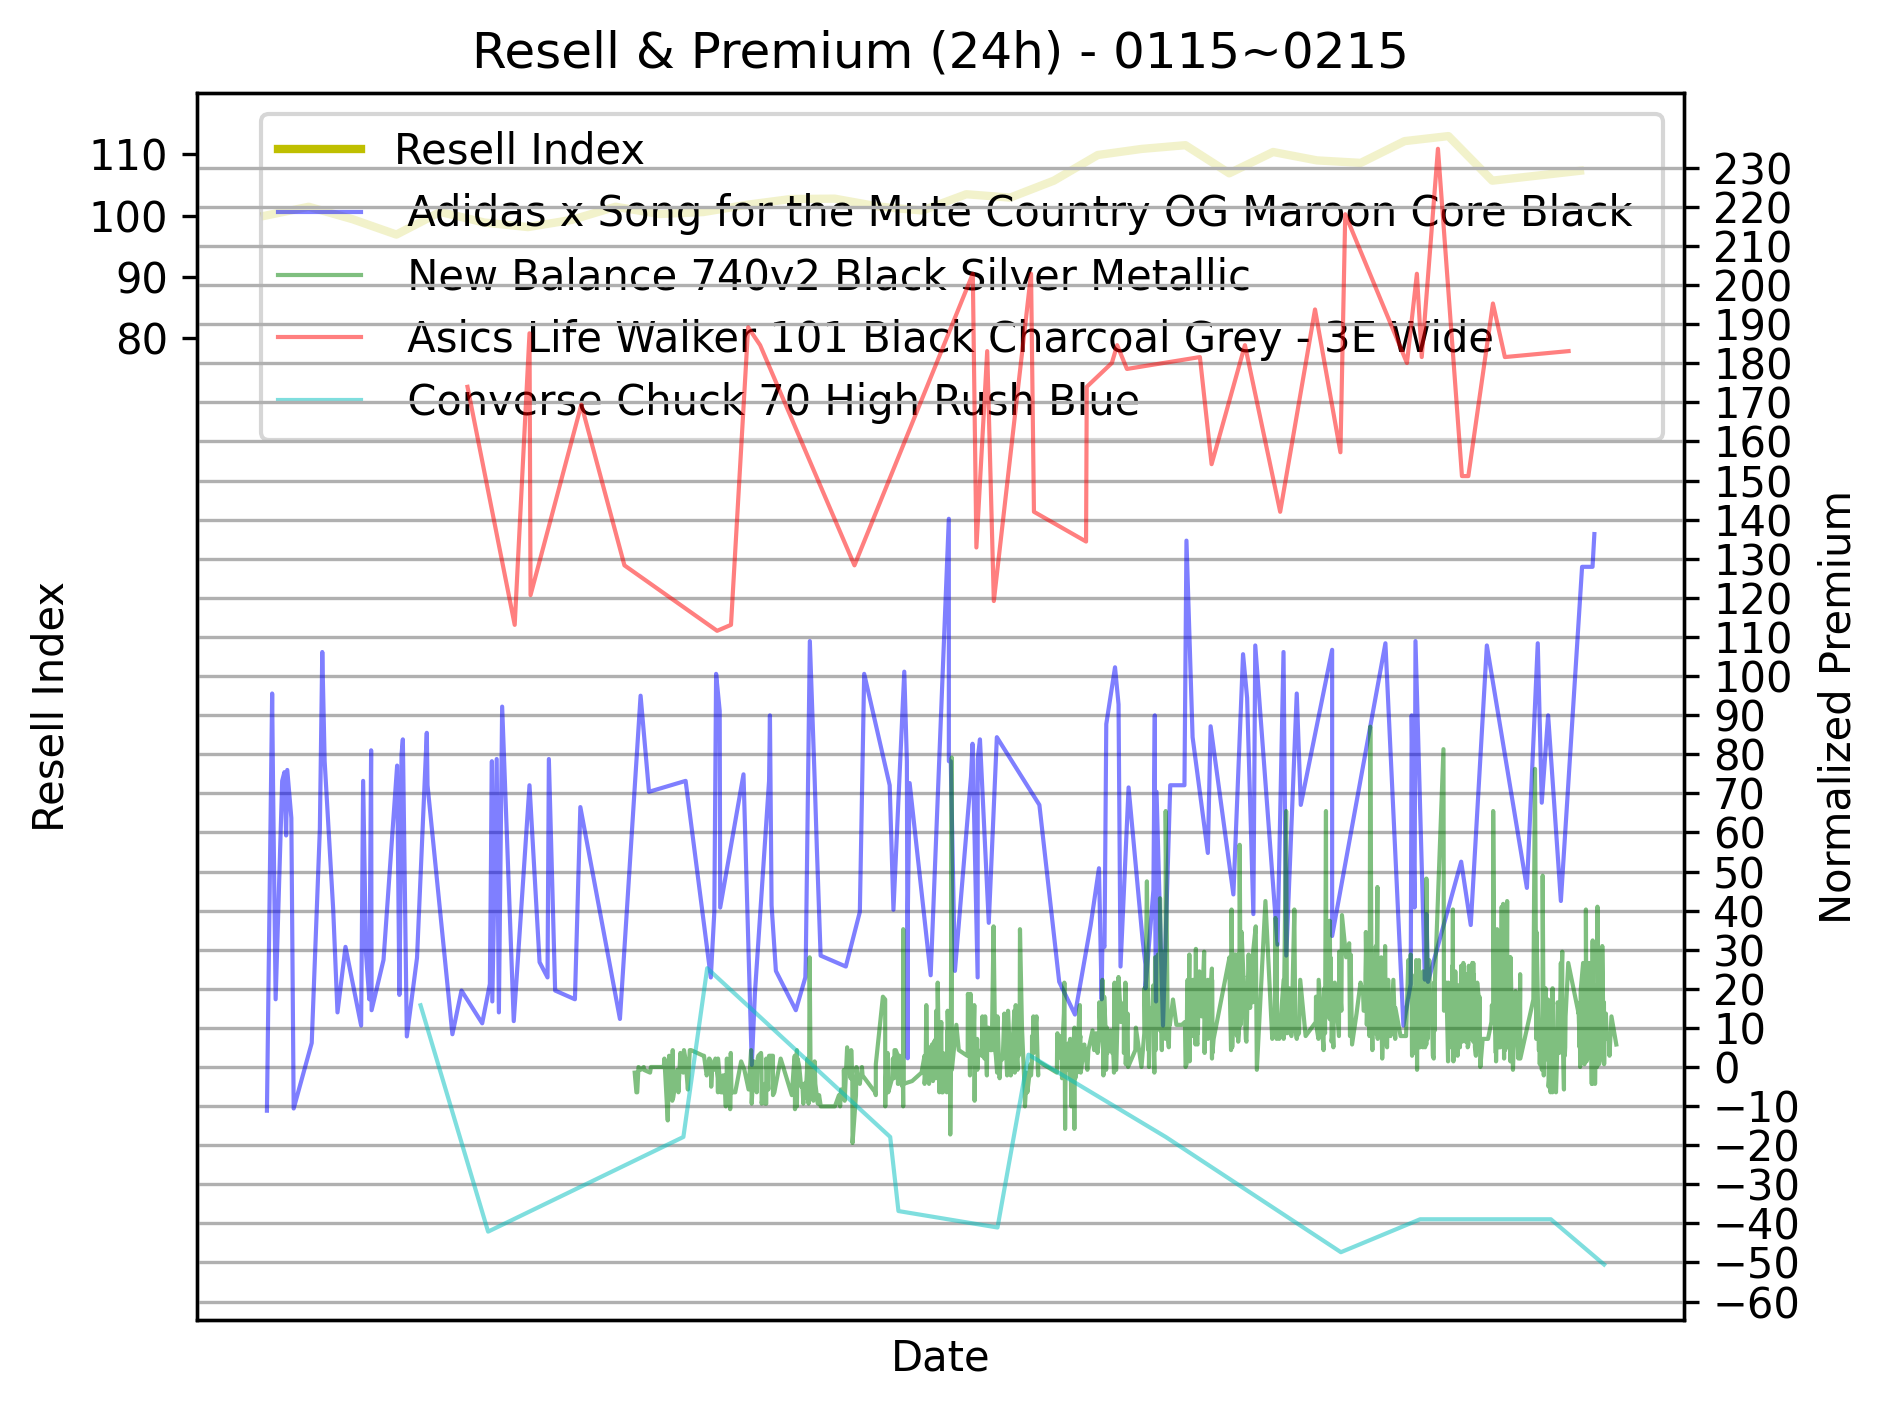
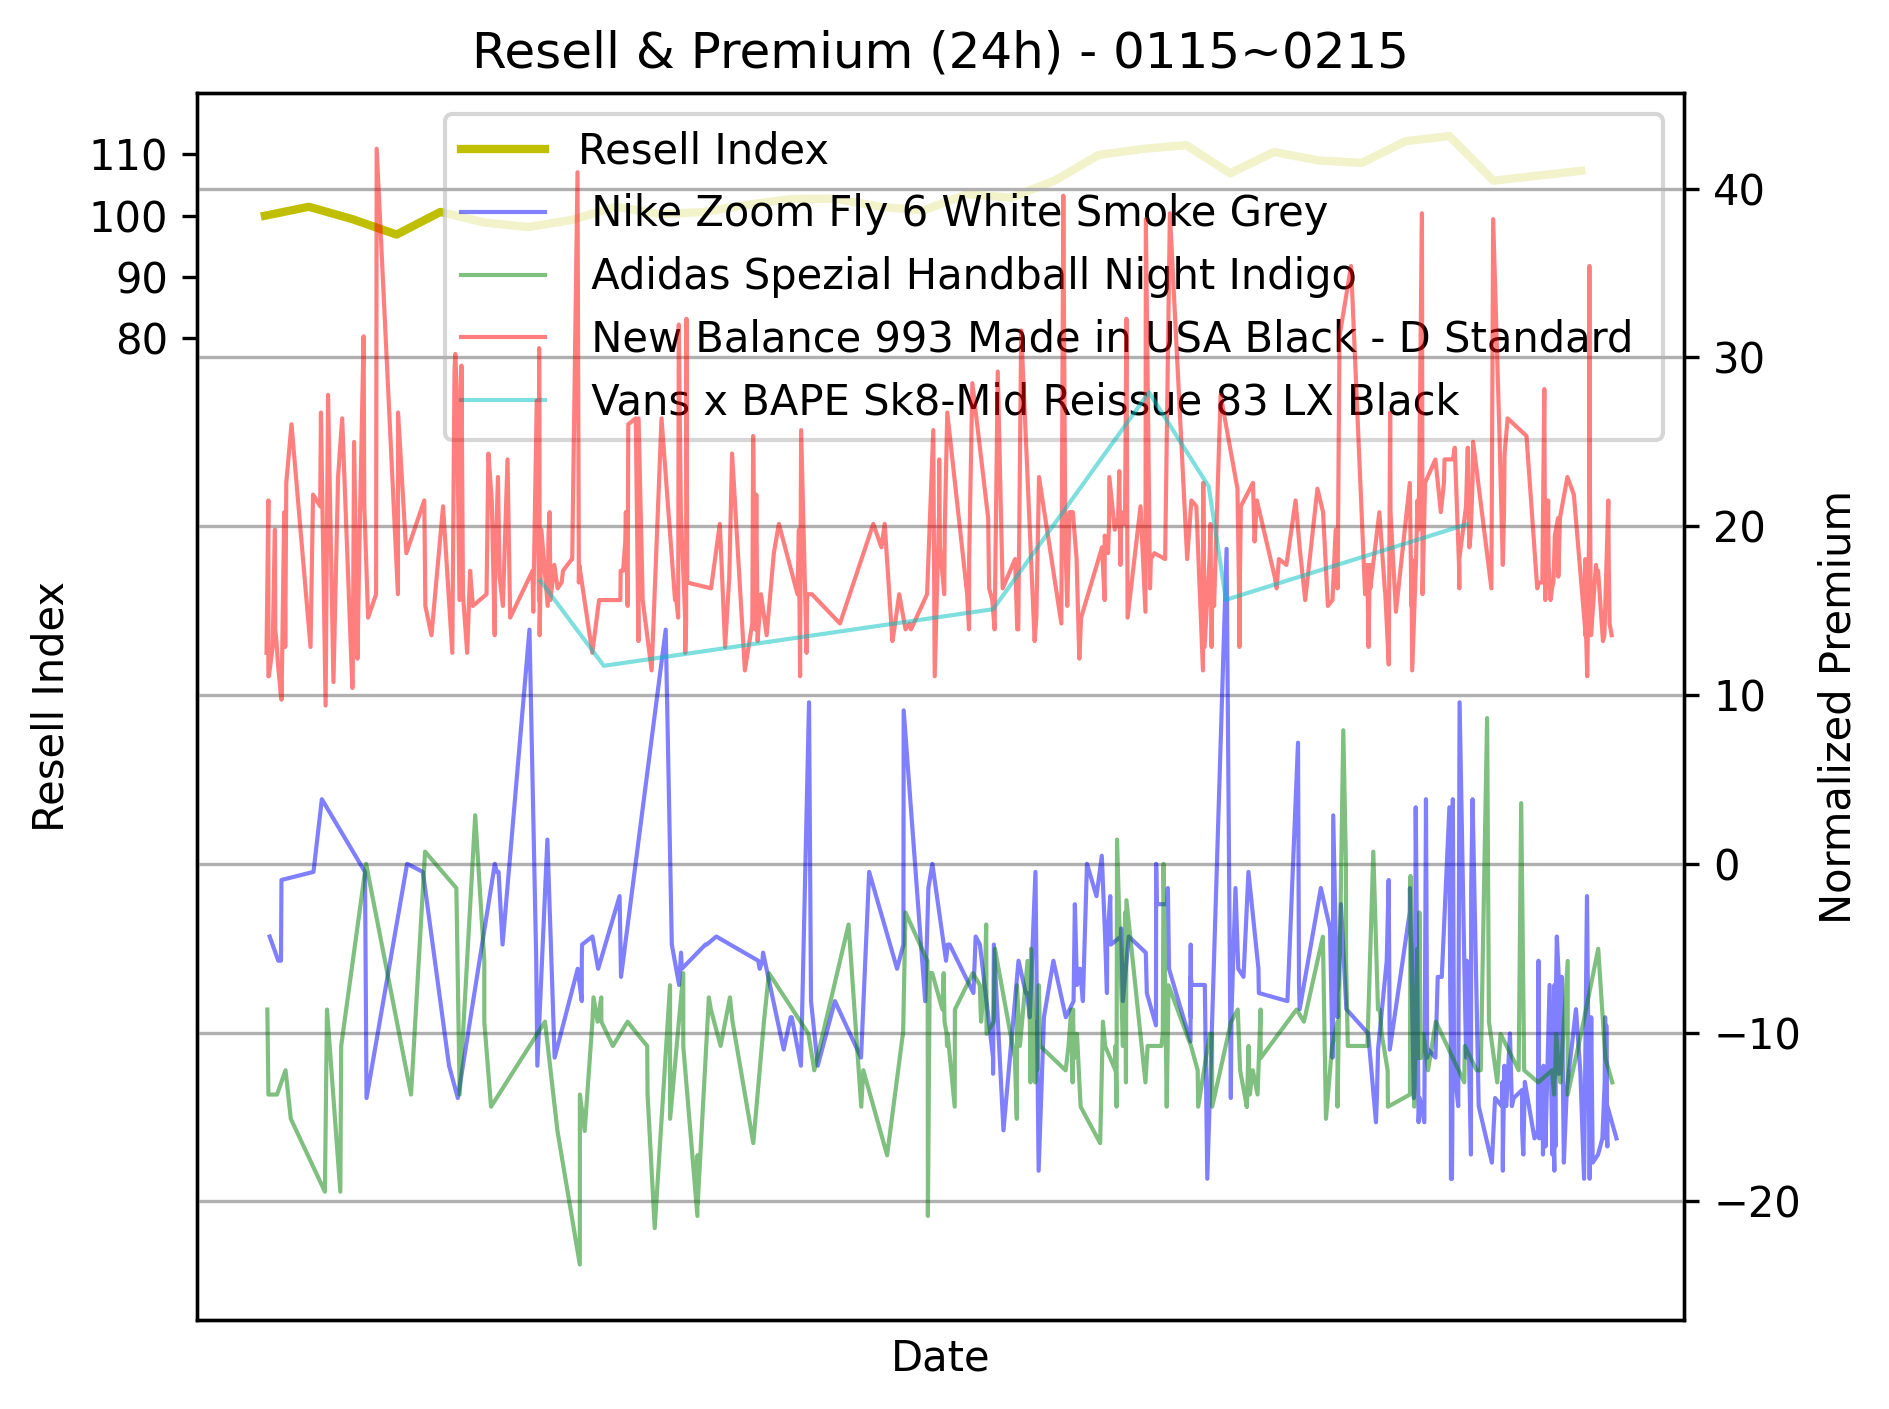
feat: 알파별 그래프 및 describe

Changed region(s): [[0.1249, 0.0937, 0.9682, 0.9368]]

diff --git a/python/main.py b/python/main.py
@@ -6,8 +6,8 @@ import pandas as pd
 
 from resell_market_index import calculate_resell_market_index, calculate_resell_market_index_4h
 from data_processing import save_interpolation_log
-from visualization import plot_resell_index, plot_premium_with_resell_index
-from utils import load_transaction_data
+from visualization import plot_resell_index, plot_premium_with_resell_index, plot_resell_index_for_alpha
+from utils import load_transaction_data, save_txt
 
 # javascript/output 폴더 경로 설정
 DATA_PATH = os.path.join("..", "source")
@@ -71,6 +71,39 @@ def main():
         save=True,
         # show=True
     )
+
+    # alpha값에 따라 resell index 데이터 만들기
+    resell_index_data_with_alpha = []
+    for i in range(0, 11, 2):
+        alpha = i / 10
+
+        resell_alpha_df = calculate_resell_market_index_4h(
+                transactions, 
+                product_meta, 
+                product_ids, 
+                baseline_date, 
+                alpha
+            )
+
+        resell_index_data_with_alpha.append([alpha, resell_alpha_df])
+    
+    plot_resell_index_for_alpha(
+        resell_index_data_with_alpha,
+        "alpha",
+        title=f"Resell Market Index (4h) - {baseline_date}~{endline_date}", 
+        save=True,
+        # show=True
+    )
+
+    # alpha값에 따른 describe 출력
+    for alpha, data in resell_index_data_with_alpha:
+        print(f"α={alpha}:")
+        print(data.describe())
+
+        raw_text = f"{baseline_date}~{endline_date}\n"
+        raw_text += f"α={alpha}:\n"
+        raw_text += str(data.describe())
+        save_txt(raw_text, f"alpha_describe/4h-alpha-{alpha}.txt")
 
     # 보간법 사용 내역 저장
     save_interpolation_log()

diff --git a/python/visualization.py b/python/visualization.py
@@ -161,6 +161,38 @@ def plot_premium_with_resell_index(
         plt.show()
     plt.close()
 
+def plot_resell_index_for_alpha(
+    resell_index_data_with_alpha, 
+    output_dir, 
+    title="Resell Market Index", 
+    save=False,
+    show=False ):
+    """
+    alpha(민감도)값을 기준으로 resell index 그래프를 그리는 함수
+    x축: 
+
+    :params resell_index_data_with_alpha: list(df)["alpha", "date_created", "market_resell_index"]
+    """
+    plt.figure(figsize=(10, 5))
+
+    for idx, values in enumerate(resell_index_data_with_alpha):
+        alpha, data = values
+        plt.plot(data["date_created"], data["market_resell_index"], linestyle='-', label=f"α={alpha}", color=color_list[idx % len(color_list)])
+
+    plt.xlabel("Date")
+    plt.xticks(rotation=45)
+    plt.ylabel("Resell Index")
+    plt.legend()
+
+
+    if save:
+        plt.savefig(f'output/{output_dir}/{title}.png', dpi=300, bbox_inches='tight')
+
+    if show:
+        plt.show()
+
+    plt.close()
+
 def plot_stock_index(
     stock_index_data,
     output_dir,

diff --git a/python/utils.py b/python/utils.py
@@ -23,3 +23,8 @@ def load_transaction_data():
 def load_csv(file_path):
     joined_path = os.path.join(DATA_PATH, file_path)
     return pd.read_csv(joined_path)
+
+def save_txt(value, file_path):
+    joined_path = os.path.join("output", file_path)
+    with open(joined_path, "w") as f:
+        f.write(str(value))
